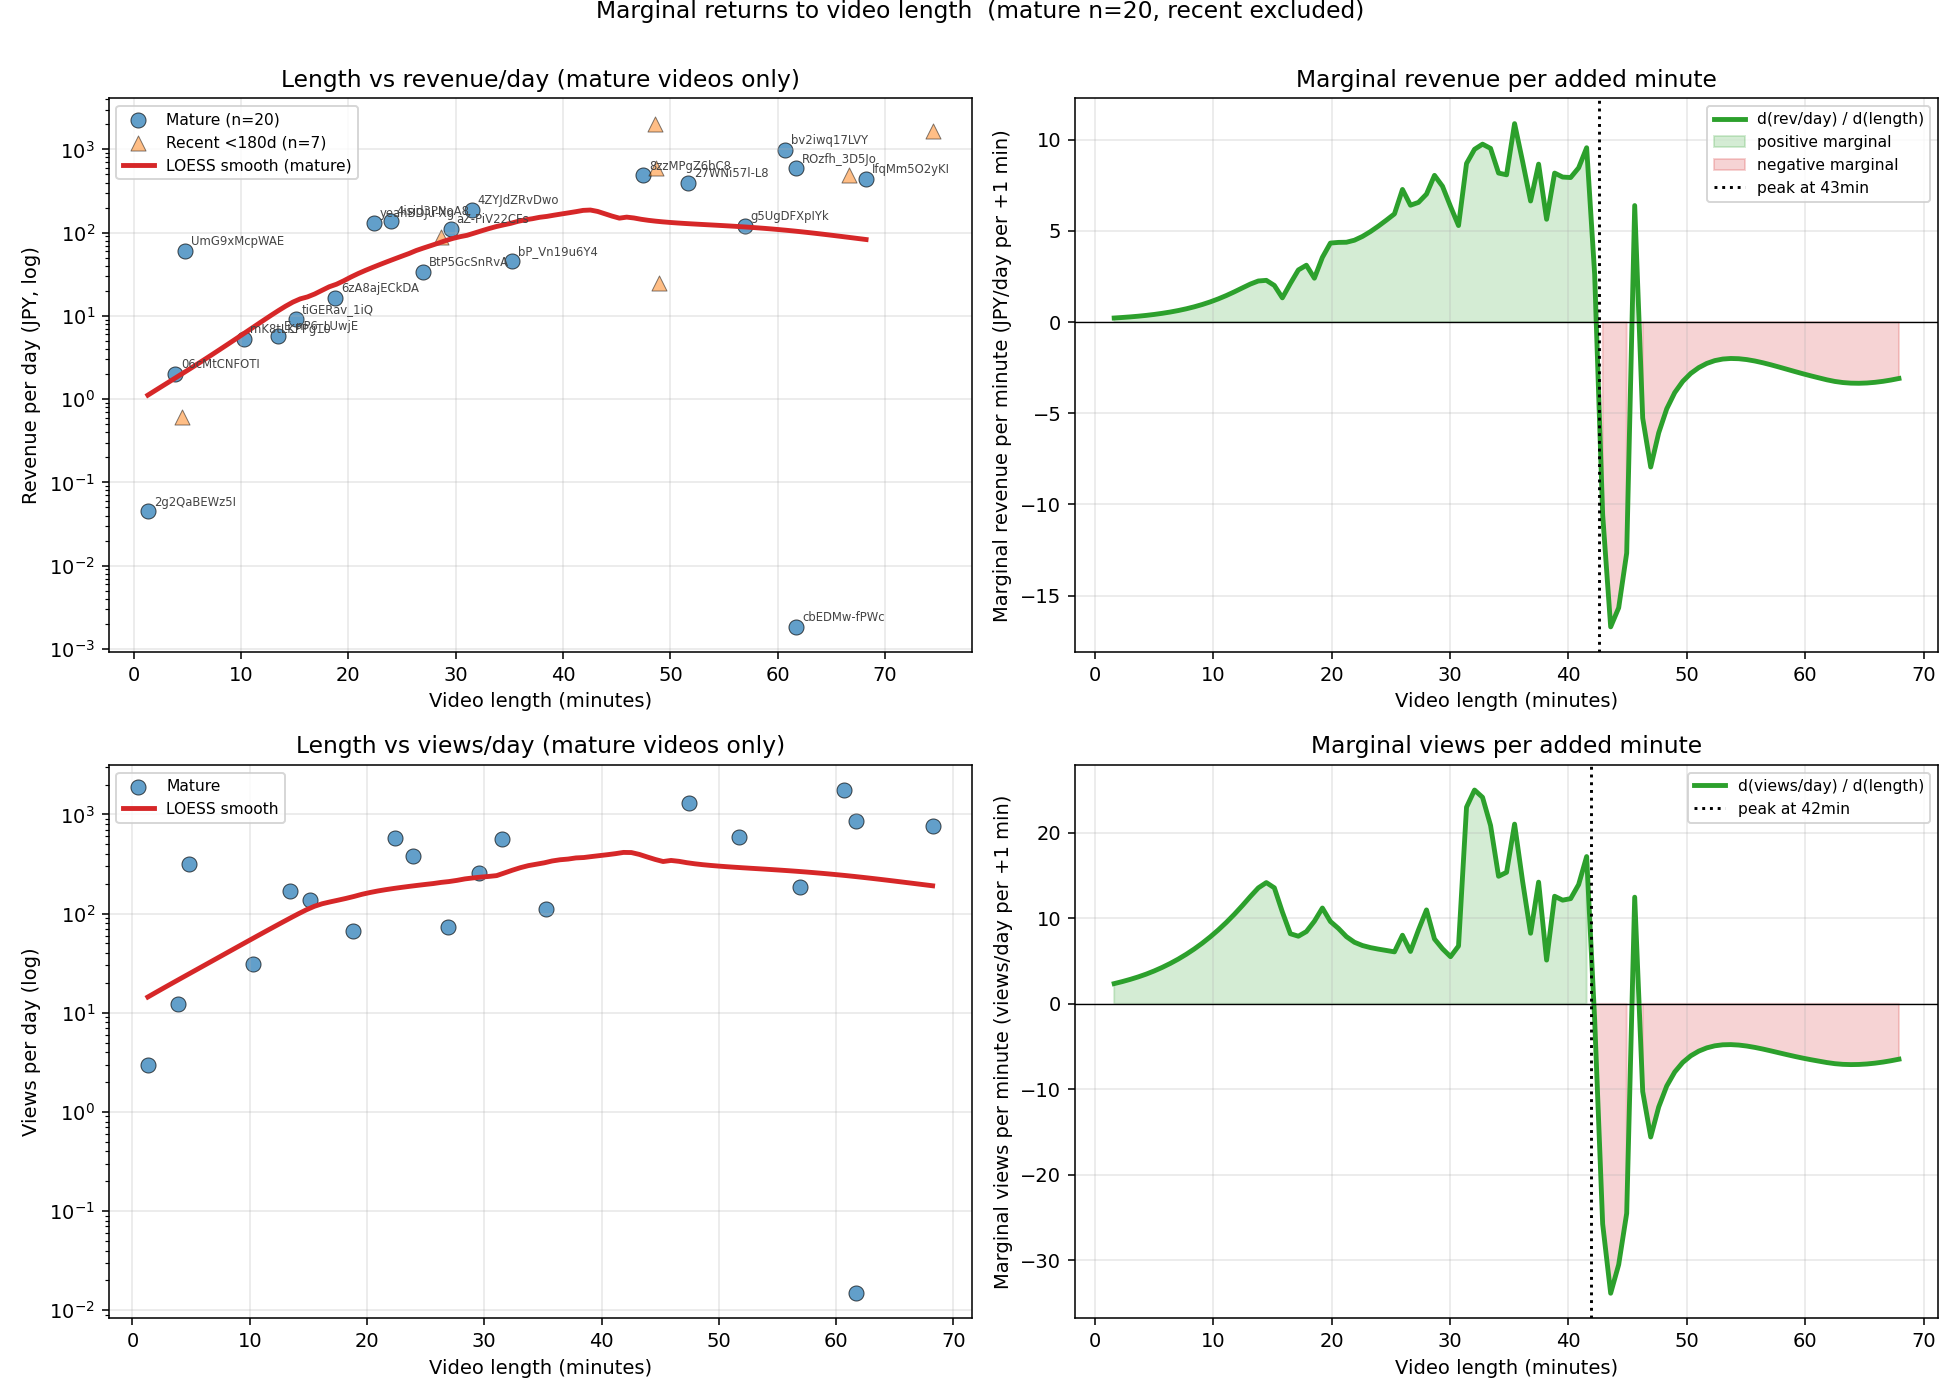
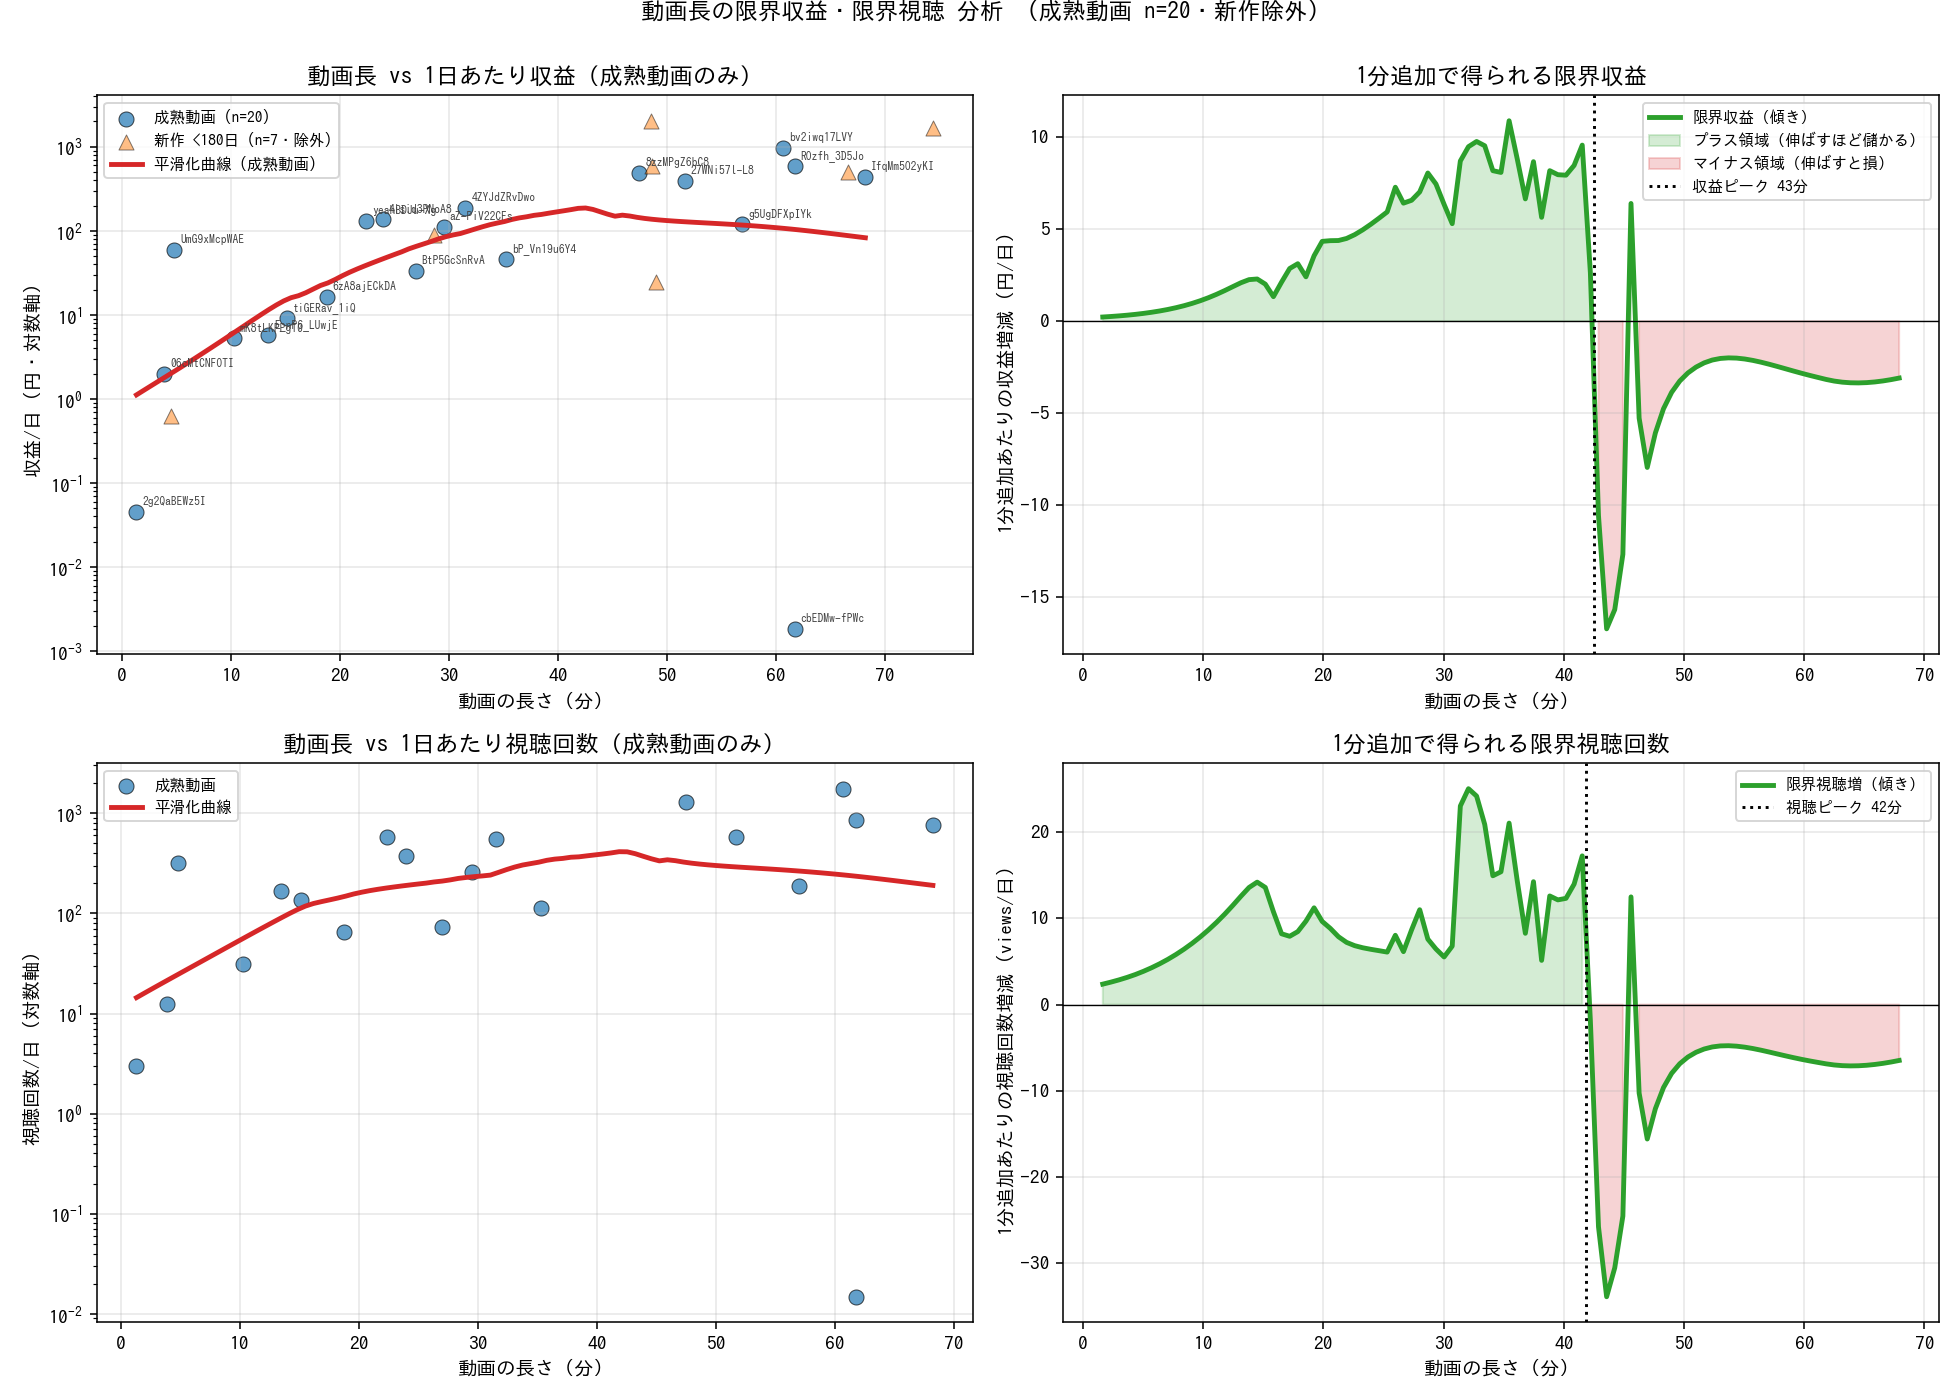
analysis: Japanese labels in matplotlib plots
Adds analysis/_jp_font.py — small helper that registers IPAGothic
(already system-installed via fonts-ipafont-gothic) with matplotlib
and sets it as default. Future plot scripts can call
setup_japanese_font() to render Japanese titles/labels.

marginal_length.py is updated to use Japanese for all titles,
axis labels, legends, and annotations.

https://claude.ai/code/session_01RwavH72gHFtHuMchfHJCYQ

diff --git a/analysis/marginal_length.py b/analysis/marginal_length.py
@@ -18,6 +18,11 @@ import matplotlib.pyplot as plt
 import numpy as np
 import pandas as pd
 
+import sys
+sys.path.insert(0, str(Path(__file__).resolve().parent))
+from _jp_font import setup_japanese_font  # noqa: E402
+setup_japanese_font()
+
 ROOT = Path(__file__).resolve().parent.parent
 ANALYTICS = ROOT / "analysis" / "report" / "cleaned.csv"
 OUT_DIR = ROOT / "analysis" / "report"
@@ -88,20 +93,20 @@ ys_m = np.exp(ys_log)
 ax = axes[0, 0]
 ax.scatter(mature["length_min"], mature["rev_per_day"],
            color="#1f77b4", s=60, alpha=0.7, edgecolor="black",
-           linewidth=0.5, label=f"Mature (n={len(mature)})")
+           linewidth=0.5, label=f"成熟動画 (n={len(mature)})")
 ax.scatter(recent["length_min"], recent["rev_per_day"],
            color="#ff7f0e", s=60, alpha=0.5, edgecolor="black",
-           linewidth=0.5, marker="^", label=f"Recent <180d (n={len(recent)})")
+           linewidth=0.5, marker="^", label=f"新作 <180日 (n={len(recent)}・除外)")
 ax.plot(xs_m, ys_m, "-", color="#d62728", linewidth=2.5,
-        label="LOESS smooth (mature)")
+        label="平滑化曲線 (成熟動画)")
 for _, r in mature.iterrows():
     ax.annotate(r["video_id"], (r["length_min"], r["rev_per_day"]),
                 xytext=(3, 3), textcoords="offset points",
                 fontsize=6, color="#444")
 ax.set_yscale("log")
-ax.set_xlabel("Video length (minutes)")
-ax.set_ylabel("Revenue per day (JPY, log)")
-ax.set_title("Length vs revenue/day (mature videos only)")
+ax.set_xlabel("動画の長さ（分）")
+ax.set_ylabel("収益/日（円・対数軸）")
+ax.set_title("動画長 vs 1日あたり収益（成熟動画のみ）")
 ax.legend(fontsize=8)
 ax.grid(True, alpha=0.3)
 
@@ -109,18 +114,18 @@ ax.grid(True, alpha=0.3)
 ax = axes[0, 1]
 xd, dy = numerical_derivative(xs_m, ys_m)
 ax.plot(xd, dy, "-", color="#2ca02c", linewidth=2.5,
-        label="d(rev/day) / d(length)")
+        label="限界収益（傾き）")
 ax.fill_between(xd, 0, dy, where=(dy > 0), alpha=0.2, color="#2ca02c",
-                label="positive marginal")
+                label="プラス領域（伸ばすほど儲かる）")
 ax.fill_between(xd, 0, dy, where=(dy <= 0), alpha=0.2, color="#d62728",
-                label="negative marginal")
+                label="マイナス領域（伸ばすと損）")
 ax.axhline(0, color="black", linewidth=0.7)
 peak_idx = np.argmax(ys_m)
 ax.axvline(xs_m[peak_idx], color="black", linestyle=":",
-           label=f"peak at {xs_m[peak_idx]:.0f}min")
-ax.set_xlabel("Video length (minutes)")
-ax.set_ylabel("Marginal revenue per minute (JPY/day per +1 min)")
-ax.set_title("Marginal revenue per added minute")
+           label=f"収益ピーク {xs_m[peak_idx]:.0f}分")
+ax.set_xlabel("動画の長さ（分）")
+ax.set_ylabel("1分追加あたりの収益増減（円/日）")
+ax.set_title("1分追加で得られる限界収益")
 ax.legend(fontsize=8)
 ax.grid(True, alpha=0.3)
 
@@ -132,13 +137,13 @@ ys_v = np.exp(ys_v_log)
 ax = axes[1, 0]
 ax.scatter(mature["length_min"], mature["views_per_day"],
            color="#1f77b4", s=60, alpha=0.7, edgecolor="black",
-           linewidth=0.5, label="Mature")
+           linewidth=0.5, label="成熟動画")
 ax.plot(xs_v, ys_v, "-", color="#d62728", linewidth=2.5,
-        label="LOESS smooth")
+        label="平滑化曲線")
 ax.set_yscale("log")
-ax.set_xlabel("Video length (minutes)")
-ax.set_ylabel("Views per day (log)")
-ax.set_title("Length vs views/day (mature videos only)")
+ax.set_xlabel("動画の長さ（分）")
+ax.set_ylabel("視聴回数/日（対数軸）")
+ax.set_title("動画長 vs 1日あたり視聴回数（成熟動画のみ）")
 ax.legend(fontsize=8)
 ax.grid(True, alpha=0.3)
 
@@ -146,21 +151,21 @@ ax.grid(True, alpha=0.3)
 ax = axes[1, 1]
 xd_v, dy_v = numerical_derivative(xs_v, ys_v)
 ax.plot(xd_v, dy_v, "-", color="#2ca02c", linewidth=2.5,
-        label="d(views/day) / d(length)")
+        label="限界視聴増（傾き）")
 ax.fill_between(xd_v, 0, dy_v, where=(dy_v > 0), alpha=0.2, color="#2ca02c")
 ax.fill_between(xd_v, 0, dy_v, where=(dy_v <= 0), alpha=0.2, color="#d62728")
 ax.axhline(0, color="black", linewidth=0.7)
 peak_idx_v = np.argmax(ys_v)
 ax.axvline(xs_v[peak_idx_v], color="black", linestyle=":",
-           label=f"peak at {xs_v[peak_idx_v]:.0f}min")
-ax.set_xlabel("Video length (minutes)")
-ax.set_ylabel("Marginal views per minute (views/day per +1 min)")
-ax.set_title("Marginal views per added minute")
+           label=f"視聴ピーク {xs_v[peak_idx_v]:.0f}分")
+ax.set_xlabel("動画の長さ（分）")
+ax.set_ylabel("1分追加あたりの視聴回数増減（views/日）")
+ax.set_title("1分追加で得られる限界視聴回数")
 ax.legend(fontsize=8)
 ax.grid(True, alpha=0.3)
 
-plt.suptitle(f"Marginal returns to video length  "
-             f"(mature n={len(mature)}, recent excluded)",
+plt.suptitle(f"動画長の限界収益・限界視聴 分析  "
+             f"(成熟動画 n={len(mature)}・新作除外)",
              fontsize=12, y=1.0)
 plt.tight_layout()
 out_png = OUT_DIR / "marginal_length.png"

diff --git a/analysis/_jp_font.py b/analysis/_jp_font.py
@@ -1,0 +1,24 @@
+"""Shared matplotlib config for Japanese labels.
+
+Import this module before any matplotlib pyplot use:
+
+    from _jp_font import setup_japanese_font
+    setup_japanese_font()
+
+It registers IPAGothic with matplotlib's font manager and sets it
+as the default sans-serif family.
+"""
+
+from pathlib import Path
+
+import matplotlib
+import matplotlib.font_manager as fm
+
+IPA_PATH = "/usr/share/fonts/opentype/ipafont-gothic/ipag.ttf"
+
+
+def setup_japanese_font() -> None:
+    if Path(IPA_PATH).exists():
+        fm.fontManager.addfont(IPA_PATH)
+    matplotlib.rcParams["font.family"] = "IPAGothic"
+    matplotlib.rcParams["axes.unicode_minus"] = False
